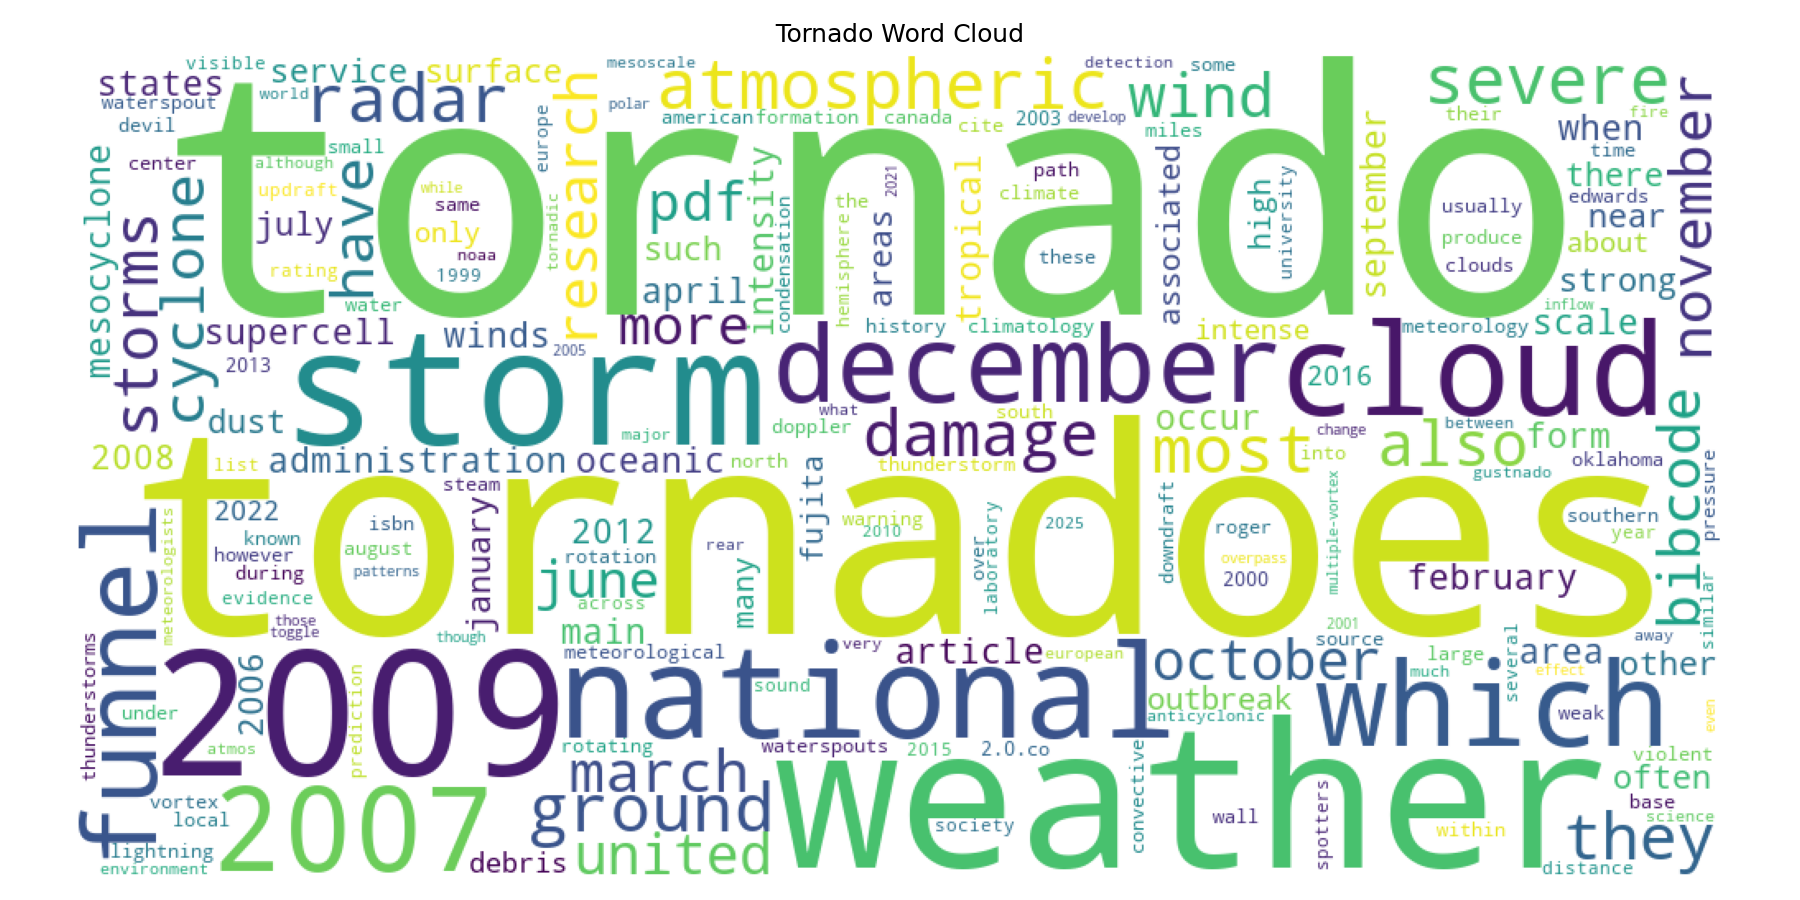
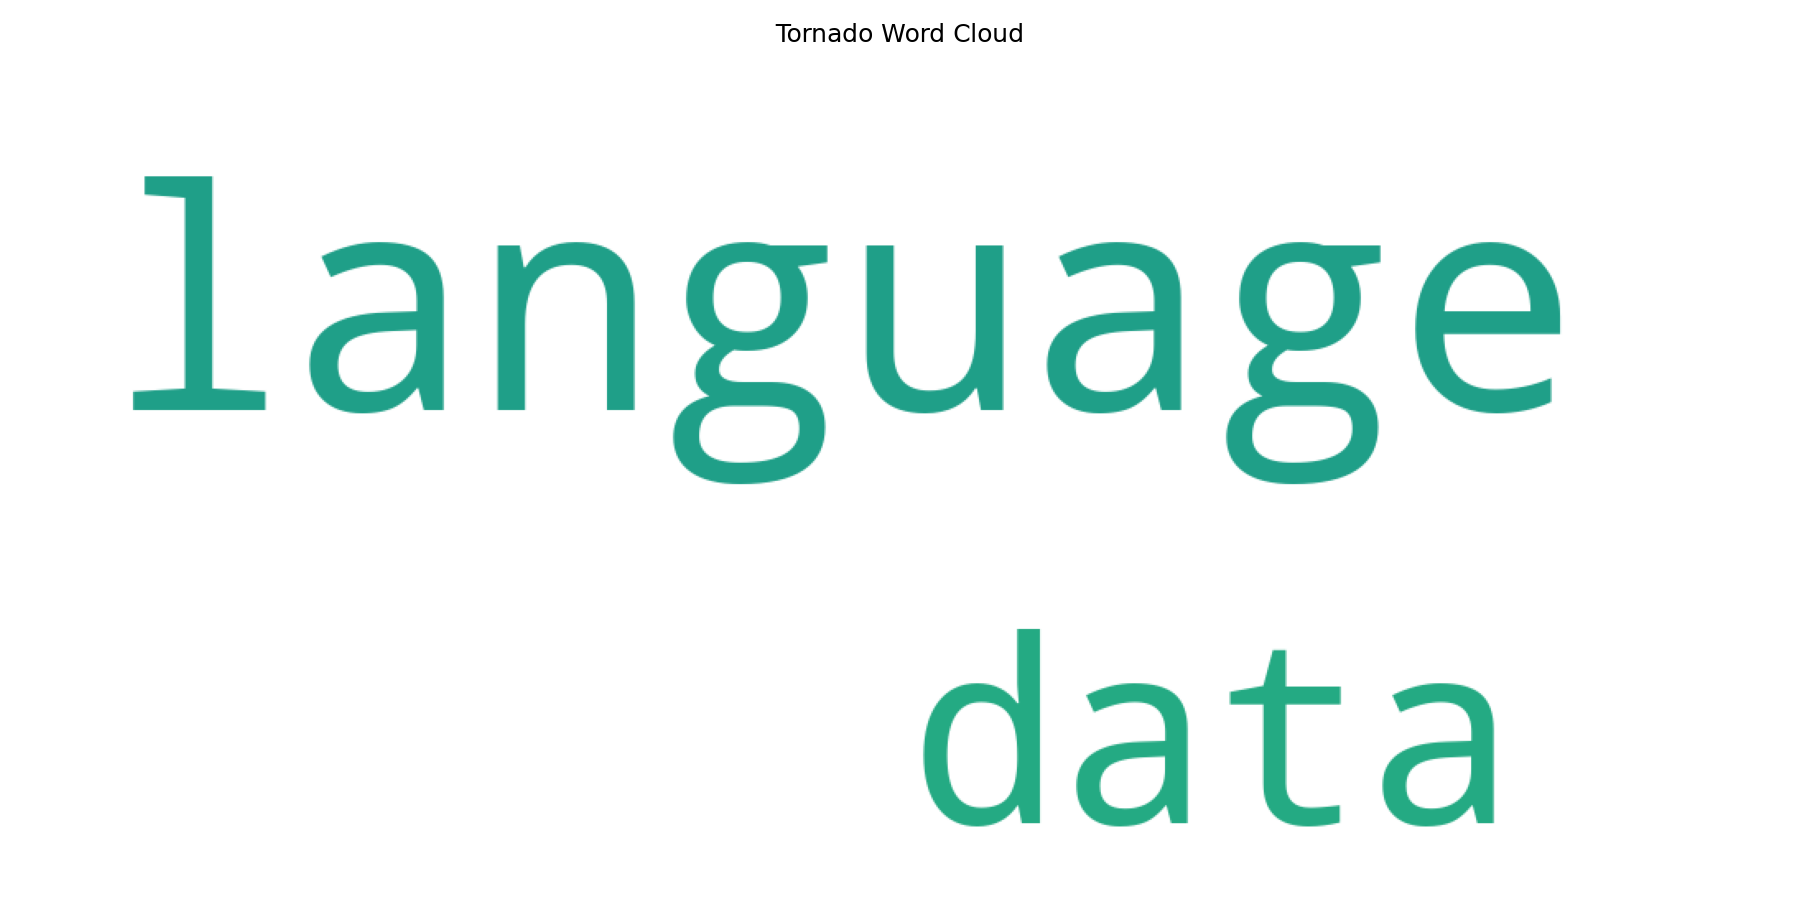
Fix visualization paths for GitHub Actions

diff --git a/src/nlp/web_words.py b/src/nlp/web_words.py
@@ -45,7 +45,7 @@ print("Imports complete.")
 
 LOG: logging.Logger = get_logger("CI", level="DEBUG")
 
-ROOT_PATH: Path = Path.cwd()
+ROOT_PATH: Path = Path(__file__).resolve().parents[2]
 NOTEBOOKS_PATH: Path = ROOT_PATH / "notebooks"
 SCRIPTS_PATH: Path = ROOT_PATH / "scripts"
 
@@ -224,7 +224,9 @@ plt.title("Most Frequent Words")
 plt.xlabel("Word")
 plt.ylabel("Frequency")
 plt.tight_layout()
-plt.savefig("docs/images/tornado_word_frequency.png", dpi=150)
+images_path = ROOT_PATH / "docs" / "images"
+images_path.mkdir(parents=True, exist_ok=True)
+plt.savefig(images_path / "tornado_word_frequency.png", dpi=150)
 plt.show()
 
 
@@ -260,7 +262,7 @@ plt.imshow(wc)
 plt.axis("off")
 plt.title("Tornado Word Cloud")
 plt.tight_layout()
-plt.savefig("docs/images/tornado_word_cloud.png", dpi=150)
+plt.savefig(images_path / "tornado_word_cloud.png", dpi=150)
 plt.show()
 
 # ============================================================
